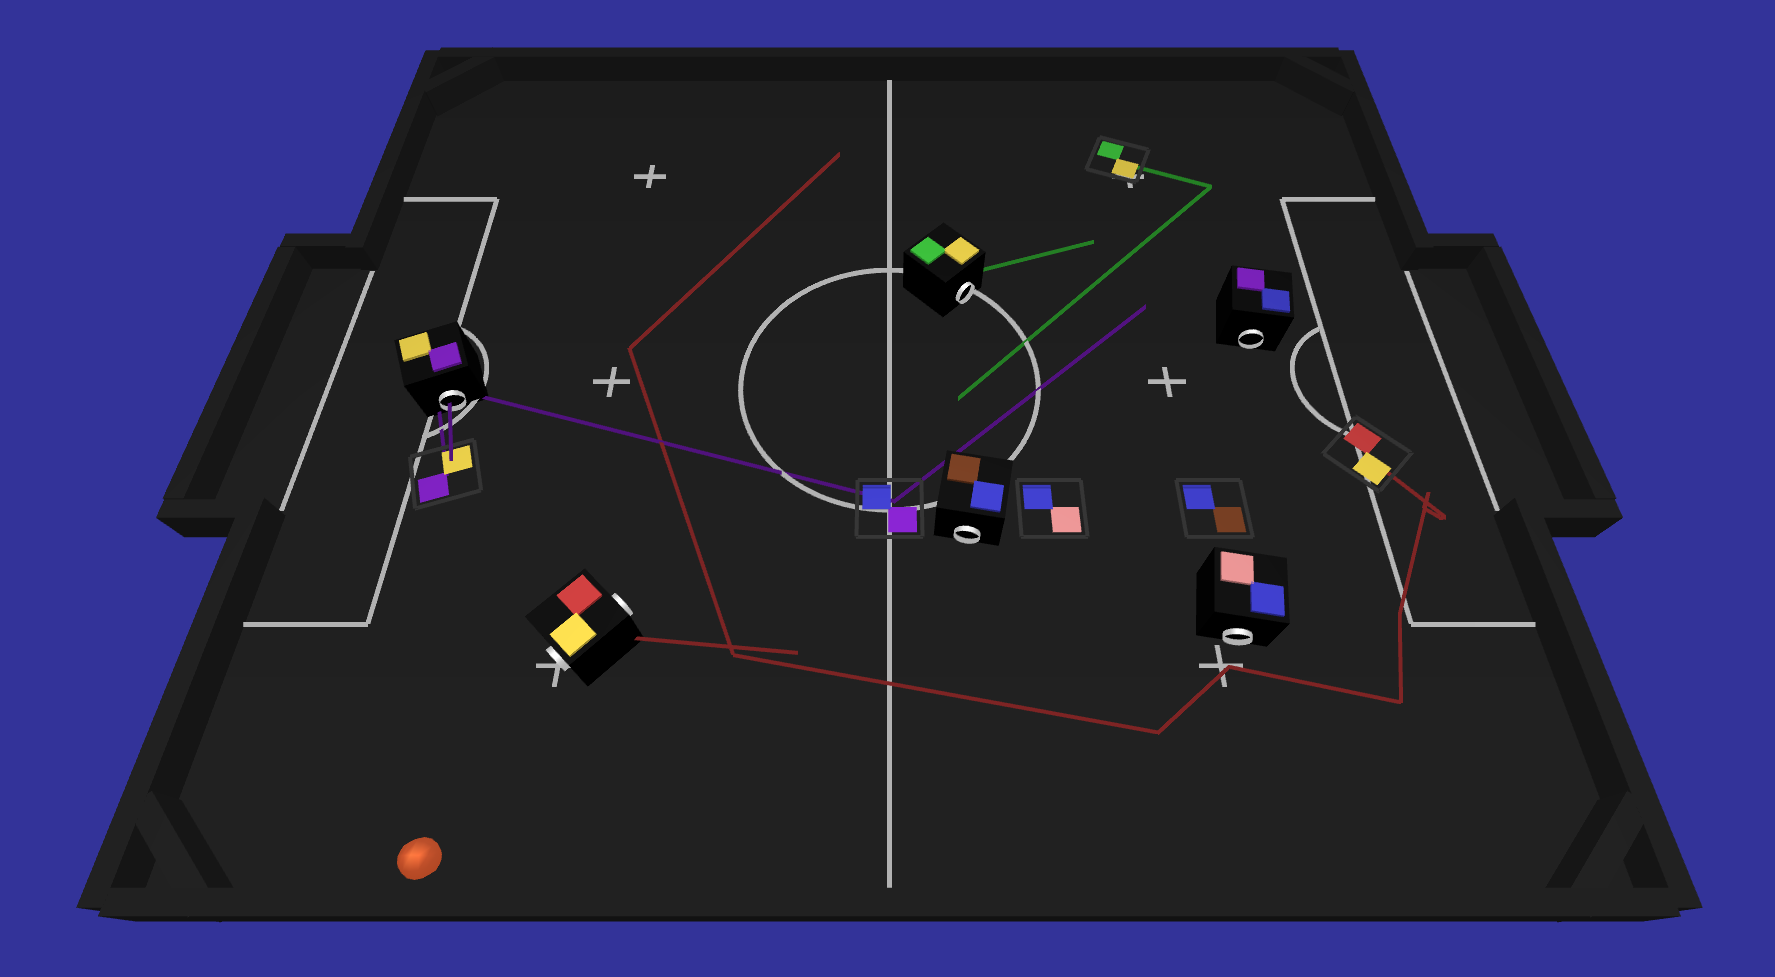
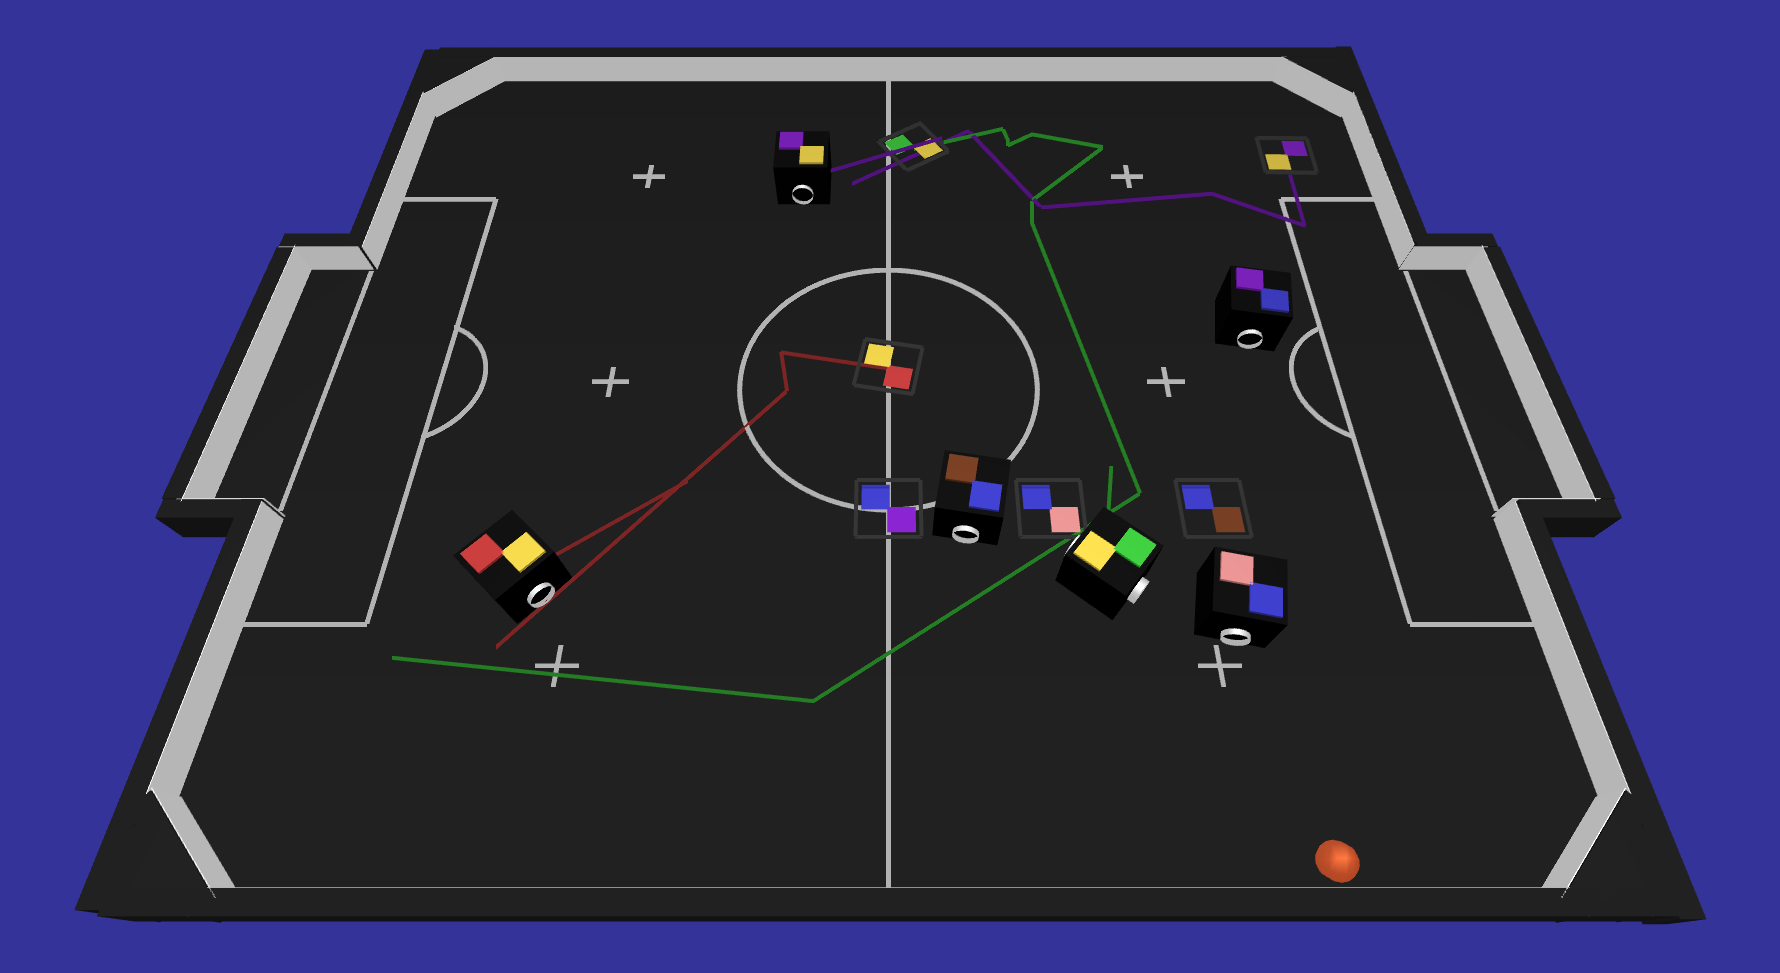
hot-update

diff --git a/src/graphics.cpp b/src/graphics.cpp
@@ -478,6 +478,7 @@ void Graphics::drawField(){
         material(BLACK);
         glutSolidCube(1);
     glPopMatrix();
+
     //! > Draw the left goal
     glPushMatrix();
         glTranslatef(0, 0, -FIELD_WIDTH/1.88);
@@ -485,6 +486,29 @@ void Graphics::drawField(){
         material(BLACK);
         glutSolidCube(1);
     glPopMatrix();
+
+    //! > Draw the left goal paint inside
+    glPushMatrix();
+        glTranslatef(THICK_THINGS, 0.0, (-FIELD_WIDTH/1.88)-(THICK_THINGS)*1.9);
+        glScalef(WALL_HEIGHT, GOAL_WIDTH+2.0, 0.1);
+        material(WHITE);
+        glutSolidCube(1);
+    glPopMatrix();
+
+    glPushMatrix();
+        glTranslatef(THICK_THINGS, 38, (-FIELD_WIDTH/2.0)+0.1);
+        glScalef(WALL_HEIGHT, 34, 0.1);
+        material(WHITE);
+        glutSolidCube(1);
+    glPopMatrix();
+
+    glPushMatrix();
+        glTranslatef(THICK_THINGS, -37.7, (-FIELD_WIDTH/2.0)+0.1);
+        glScalef(WALL_HEIGHT, 34.2, 0.1);
+        material(WHITE);
+        glutSolidCube(1);
+    glPopMatrix();
+
     //! > Draw the right goal
     glPushMatrix();
         glTranslatef(0, 0, FIELD_WIDTH/1.88);
@@ -492,6 +516,30 @@ void Graphics::drawField(){
         material(BLACK);
         glutSolidCube(1);
     glPopMatrix();
+
+    //! > Draw the right goal paint inside
+    glPushMatrix();
+        glTranslatef(THICK_THINGS, 0.0, (FIELD_WIDTH/1.88)+(THICK_THINGS)*1.9);
+        glScalef(WALL_HEIGHT, GOAL_WIDTH+2.0, 0.1);
+        material(WHITE);
+        glutSolidCube(1);
+    glPopMatrix();
+
+    glPushMatrix();
+        glTranslatef(THICK_THINGS, 38, (FIELD_WIDTH/2.0)-0.1);
+        glScalef(WALL_HEIGHT, 34, 0.1);
+        material(WHITE);
+        glutSolidCube(1);
+    glPopMatrix();
+
+    glPushMatrix();
+        glTranslatef(THICK_THINGS, -38, (FIELD_WIDTH/2.0)-0.1);
+        glScalef(WALL_HEIGHT, 34, 0.1);
+        material(WHITE);
+        glutSolidCube(1);
+    glPopMatrix();
+    
+
     //! > Draw the top wall in perspective
     glPushMatrix();
         glTranslatef(THICK_THINGS, -FIELD_DEPTH/2.0, 0);
@@ -499,6 +547,15 @@ void Graphics::drawField(){
         material(BLACK2);
         glutSolidCube(1);
     glPopMatrix();
+    
+    //! > Draw the white paint top wall in perspective
+    glPushMatrix();
+        glTranslatef(THICK_THINGS, -FIELD_DEPTH/2.0+(THICK_THINGS/2.0), 0);
+        glScalef(WALL_HEIGHT, 0.1, FIELD_WIDTH-(9.0*2.0));
+        material(WHITE);
+        glutSolidCube(1);
+    glPopMatrix();
+
     //! > Draw the bottom wall in perspective
     glPushMatrix();
         glTranslatef(THICK_THINGS, FIELD_DEPTH/2.0, 0);
@@ -506,16 +563,26 @@ void Graphics::drawField(){
         material(BLACK2);
         glutSolidCube(1);
     glPopMatrix();
+
+    //! > Draw the white paint bottom wall in perspective
+    glPushMatrix();
+        glTranslatef(THICK_THINGS, FIELD_DEPTH/2.0-(THICK_THINGS/2.0), 0);
+        glScalef(WALL_HEIGHT, 0.1, FIELD_WIDTH-(9.0*2.0));
+        material(WHITE);
+        glutSolidCube(1);
+    glPopMatrix();
+
     //! > Draw the left-bottom wall in perspective
     glPushMatrix();
-        glTranslatef(THICK_THINGS, 43.0, -FIELD_WIDTH/1.97);
+        glTranslatef(THICK_THINGS, 43.2, -FIELD_WIDTH/1.97);
         glScalef(WALL_HEIGHT, WALL_TOPS_B, THICK_THINGS);
         material(BLACK2);
         glutSolidCube(1);
     glPopMatrix();
+    
     //! > Draw the left-top wall in perspective
     glPushMatrix();
-        glTranslatef(THICK_THINGS, -43.0, -FIELD_WIDTH/1.97);
+        glTranslatef(THICK_THINGS, -43.2, -FIELD_WIDTH/1.97);
         glScalef(WALL_HEIGHT, WALL_TOPS_B, THICK_THINGS);
         material(BLACK2);
         glutSolidCube(1);
@@ -527,6 +594,7 @@ void Graphics::drawField(){
         material(BLACK2);
         glutSolidCube(1);
     glPopMatrix();
+
     // WALL GOAL TOP
     glPushMatrix();
         glTranslatef(THICK_THINGS, -22, -FIELD_WIDTH/1.85);
@@ -534,6 +602,15 @@ void Graphics::drawField(){
         material(BLACK2);
         glutSolidCube(1);
     glPopMatrix();
+
+    // WALL GOAL TOP WHITE
+    glPushMatrix();
+        glTranslatef(THICK_THINGS, -20.6, -FIELD_WIDTH/1.85);
+        glScalef(WALL_HEIGHT, 0.1, GOAL_DEPTH+1.35);
+        material(WHITE);
+        glutSolidCube(1);
+    glPopMatrix();
+
     // WALL GOAL BOTTOM
     glPushMatrix();
         glTranslatef(THICK_THINGS, 22, -FIELD_WIDTH/1.85);
@@ -542,20 +619,46 @@ void Graphics::drawField(){
         glutSolidCube(1);
     glPopMatrix();
 
+    // WALL GOAL BOTTOM WHITE
+    glPushMatrix();
+        glTranslatef(THICK_THINGS, 20.6, -FIELD_WIDTH/1.875);
+        glScalef(WALL_HEIGHT, 0.1, GOAL_DEPTH+0.5);
+        material(WHITE);
+        glutSolidCube(1);
+    glPopMatrix();
+
+
+    // WALL GOAL BOTTOM WHITE
+    glPushMatrix();
+        glTranslatef(THICK_THINGS, 20.6, FIELD_WIDTH/1.875);
+        glScalef(WALL_HEIGHT, 0.1, GOAL_DEPTH+0.5);
+        material(WHITE);
+        glutSolidCube(1);
+    glPopMatrix();
+
+    glPushMatrix();
+        glTranslatef(THICK_THINGS, -20.6, FIELD_WIDTH/1.875);
+        glScalef(WALL_HEIGHT, 0.1, GOAL_DEPTH+0.5);
+        material(WHITE);
+        glutSolidCube(1);
+    glPopMatrix();
+
     // WALL LEFT/BOTTOM
     glPushMatrix();
-        glTranslatef(THICK_THINGS, 43.0, FIELD_WIDTH/1.97);
+        glTranslatef(THICK_THINGS, 44.0, FIELD_WIDTH/1.97);
         glScalef(WALL_HEIGHT, WALL_TOPS_B, THICK_THINGS);
         material(BLACK2);
         glutSolidCube(1);
     glPopMatrix();
+    
     // WALL LEFT/TOP
     glPushMatrix();
-        glTranslatef(THICK_THINGS, -43.0, FIELD_WIDTH/1.97);
+        glTranslatef(THICK_THINGS, -44.0, FIELD_WIDTH/1.97);
         glScalef(WALL_HEIGHT, WALL_TOPS_B, THICK_THINGS);
         material(BLACK2);
         glutSolidCube(1);
     glPopMatrix();
+
     // WALL GOAL RIGHT
     glPushMatrix();
         glTranslatef(THICK_THINGS, 0, FIELD_WIDTH/1.98 + GOAL_DEPTH );
@@ -563,6 +666,7 @@ void Graphics::drawField(){
         material(BLACK2);
         glutSolidCube(1);
     glPopMatrix();
+    
     // WALL GOAL TOP
     glPushMatrix();
         glTranslatef(THICK_THINGS, -22, FIELD_WIDTH/1.85);
@@ -570,6 +674,7 @@ void Graphics::drawField(){
         material(BLACK2);
         glutSolidCube(1);
     glPopMatrix();
+
     // WALL GOAL BOTTOM
     glPushMatrix();
         glTranslatef(THICK_THINGS, 22, FIELD_WIDTH/1.85);
@@ -577,35 +682,125 @@ void Graphics::drawField(){
         material(BLACK2);
         glutSolidCube(1);
     glPopMatrix();
+
     // TRIANGLE RIGHT BOTTOM
     glPushMatrix();
         glTranslatef(THICK_THINGS, (FIELD_DEPTH/2.0)-4.5, (FIELD_WIDTH/2.0)-4.5);
         glRotatef(45.0, 1, 0, 0);
-        glScalef(WALL_HEIGHT, THICK_THINGS, 14.0);
+        glScalef(WALL_HEIGHT, THICK_THINGS, 14.1);
         material(BLACK2);
         glutSolidCube(1);
     glPopMatrix();
+    glPushMatrix();
+        glTranslatef(THICK_THINGS, (FIELD_DEPTH/2.0)-5.5, (FIELD_WIDTH/2.0)-5.5);
+        glRotatef(45.0, 1, 0, 0);
+        glScalef(WALL_HEIGHT, 0.1, 14.5);
+        material(WHITE);
+        glutSolidCube(1);
+    glPopMatrix();
+    glPushMatrix();
+        glTranslatef(THICK_THINGS, (FIELD_DEPTH/2.0)-3.0, (FIELD_WIDTH/2.0)-3.0);
+        glRotatef(45.0, 1, 0, 0);
+        glScalef(WALL_HEIGHT, THICK_THINGS, 9.5);
+        material(BLACK2);
+        glutSolidCube(1);
+    glPopMatrix();
+    glPushMatrix();
+        glTranslatef(THICK_THINGS, (FIELD_DEPTH/2.0)-1.5, (FIELD_WIDTH/2.0)-1.5);
+        glRotatef(45.0, 1, 0, 0);
+        glScalef(WALL_HEIGHT, THICK_THINGS, 5.5);
+        material(BLACK2);
+        glutSolidCube(1);
+    glPopMatrix();
+
     // TRIANGLE LEFT TOP
+    glPushMatrix();
+        glTranslatef(THICK_THINGS, -(FIELD_DEPTH/2.0)+5.5, -(FIELD_WIDTH/2.0)+5.5);
+        glRotatef(45.0, 1, 0, 0);
+        glScalef(WALL_HEIGHT, 0.1, 14.5);
+        material(WHITE);
+        glutSolidCube(1);
+    glPopMatrix();
     glPushMatrix();
         glTranslatef(THICK_THINGS, -(FIELD_DEPTH/2.0)+4.5, -(FIELD_WIDTH/2.0)+4.5);
         glRotatef(45.0, 1, 0, 0);
-        glScalef(WALL_HEIGHT, THICK_THINGS, 14.0);
+        glScalef(WALL_HEIGHT, THICK_THINGS, 14.1);
         material(BLACK2);
         glutSolidCube(1);
     glPopMatrix();
+    glPushMatrix();
+        glTranslatef(THICK_THINGS, -(FIELD_DEPTH/2.0)+3.0, -(FIELD_WIDTH/2.0)+3.0);
+        glRotatef(45.0, 1, 0, 0);
+        glScalef(WALL_HEIGHT, THICK_THINGS, 9.5);
+        material(BLACK2);
+        glutSolidCube(1);
+    glPopMatrix();
+    glPushMatrix();
+        glTranslatef(THICK_THINGS, -(FIELD_DEPTH/2.0)+1.5, -(FIELD_WIDTH/2.0)+1.5);
+        glRotatef(45.0, 1, 0, 0);
+        glScalef(WALL_HEIGHT, THICK_THINGS, 5.5);
+        material(BLACK2);
+        glutSolidCube(1);
+    glPopMatrix();
+
+
     // TRIANGLE RIGHT BOTTOM
+    glPushMatrix();
+        glTranslatef(THICK_THINGS, -(FIELD_DEPTH/2.0)+5.5, (FIELD_WIDTH/2.0)-5.5);
+        glRotatef(-45.0, 1, 0, 0);
+        glScalef(WALL_HEIGHT, 0.1, 14.5);
+        material(WHITE);
+        glutSolidCube(1);
+    glPopMatrix();
     glPushMatrix();
         glTranslatef(THICK_THINGS, -(FIELD_DEPTH/2.0)+4.5, (FIELD_WIDTH/2.0)-4.5);
         glRotatef(-45.0, 1, 0, 0);
-        glScalef(WALL_HEIGHT, THICK_THINGS, 14.0);
+        glScalef(WALL_HEIGHT, THICK_THINGS, 14.1);
         material(BLACK2);
         glutSolidCube(1);
     glPopMatrix();
+    glPushMatrix();
+        glTranslatef(THICK_THINGS, -(FIELD_DEPTH/2.0)+3.0, (FIELD_WIDTH/2.0)-3.0);
+        glRotatef(-45.0, 1, 0, 0);
+        glScalef(WALL_HEIGHT, THICK_THINGS, 9.5);
+        material(BLACK2);
+        glutSolidCube(1);
+    glPopMatrix();
+    glPushMatrix();
+        glTranslatef(THICK_THINGS, -(FIELD_DEPTH/2.0)+1.5, (FIELD_WIDTH/2.0)-1.5);
+        glRotatef(-45.0, 1, 0, 0);
+        glScalef(WALL_HEIGHT, THICK_THINGS, 5.5);
+        material(BLACK2);
+        glutSolidCube(1);
+    glPopMatrix();
+
+
     // TRIANGLE LEFT TOP
+    glPushMatrix();
+        glTranslatef(THICK_THINGS, (FIELD_DEPTH/2.0)-5.5, -(FIELD_WIDTH/2.0)+5.5);
+        glRotatef(-45.0, 1, 0, 0);
+        glScalef(WALL_HEIGHT, 0.1, 14.5);
+        material(WHITE);
+        glutSolidCube(1);
+    glPopMatrix();
     glPushMatrix();
         glTranslatef(THICK_THINGS, (FIELD_DEPTH/2.0)-4.5, -(FIELD_WIDTH/2.0)+4.5);
         glRotatef(-45.0, 1, 0, 0);
-        glScalef(WALL_HEIGHT, THICK_THINGS, 14.0);
+        glScalef(WALL_HEIGHT, THICK_THINGS, 14.1);
+        material(BLACK2);
+        glutSolidCube(1);
+    glPopMatrix();
+    glPushMatrix();
+        glTranslatef(THICK_THINGS, (FIELD_DEPTH/2.0)-3.0, -(FIELD_WIDTH/2.0)+3.0);
+        glRotatef(-45.0, 1, 0, 0);
+        glScalef(WALL_HEIGHT, THICK_THINGS, 9.5);
+        material(BLACK2);
+        glutSolidCube(1);
+    glPopMatrix();
+    glPushMatrix();
+        glTranslatef(THICK_THINGS, (FIELD_DEPTH/2.0)-1.5, -(FIELD_WIDTH/2.0)+1.5);
+        glRotatef(-45.0, 1, 0, 0);
+        glScalef(WALL_HEIGHT, THICK_THINGS, 5.5);
         material(BLACK2);
         glutSolidCube(1);
     glPopMatrix();
